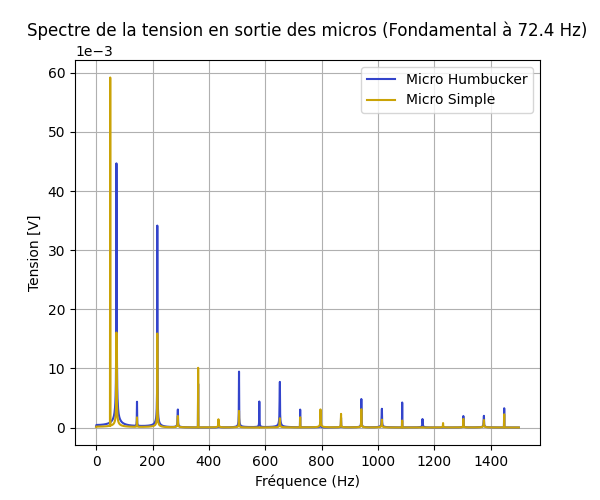
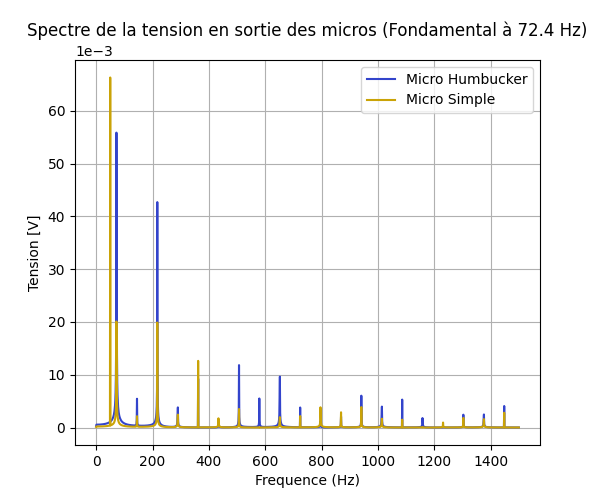
Code improved

diff --git a/Python/Code/Modele_fem.py b/Python/Code/Modele_fem.py
@@ -10,7 +10,11 @@ print("\nImportation des bibliotheques...")
 import numpy as np
 import matplotlib.pyplot as plt
 from matplotlib.ticker import MultipleLocator
+import os
+import logging
 print("Bibliotheques importees.")
+# Configure logging for optional diagnostic output
+logging.basicConfig(level=logging.INFO, format='%(levelname)s: %(message)s')
 
                                             #!###########!#
                                             #! Constante !#
@@ -35,9 +39,9 @@ RCC_s = 8.92*10**3      #A verifier ???
 lmoy_s = 0.147          #A verifier ???
 N_s = int(RCC_s*np.pi*d**2 / (4*rho*lmoy_s))
 #* Parametre Micro Humbucker
-RCC_h = ...             #A verifier ???
-lmoy_h = ...            #A verifier ???
-N_h = ...               #A verifier ???
+RCC_h = None             #A verifier ???
+lmoy_h = None            #A verifier ???
+N_h = None               #A verifier ???
 #* Parametre Champ parasite
 Nbob = 150              #A verifier ???
 R = 0.05                #A verifier ???
@@ -88,6 +92,11 @@ params = [
 # En-tête du tableau
 print(f"{'Var':<8} {'Valeur':>18} {'Unite':<10} {'Description':<45}")
 print("-" * 85)
+
+# Avertissement si les paramètres humbucker ne sont pas renseignés
+if RCC_h is None or lmoy_h is None or N_h is None:
+    logging.warning("Parametres humbucker (RCC_h, lmoy_h, N_h) non defini(s). Certaines simulations pourront utiliser N_s en substitution.")
+
 
 # Affichage des parametres
 compteur = 1
@@ -156,166 +165,187 @@ def fem_par_h(N:int, x1: float, x2: float, f:float, t: np.ndarray) -> np.ndarray
                                             #!######################!#
                                             #!         Appel        !#
                                             #!######################!#
-print("-" * 100)
-print("\nCalcul des tensions induites...")
-print("\nEchantillonnage...")
-Te = 0.03
-Ne = 1000
-fs = Ne/Te
-Na = 20
-# Affichage des parametres d'echantillonnage
-print("\nParametres d'echantillonnage (avec unites) :")
-print(f"Te = {Te} s")
-print(f"Ne = {Ne} echantillons")
-print(f"fs = {fs:.6g} Hz")
-print(f"Na = {Na}")
+if __name__ == "__main__":
+    # Ensure export directory exists
+    os.makedirs("Python/Exports", exist_ok=True)
 
-print("\nCalcul des tensions en reponse a la vibration de la corde...")
-temps = np.linspace(0, Te, Ne, endpoint=False)
-corde = entree(Na, xm, temps)
-fem_s = fem_singlecoil(Na, N_s, xm, temps)
-fem_h = fem_humbucker(Na, N_s, x1, x2, temps)
+    print("-" * 100)
+    print("\nCalcul des tensions induites...")
+    print("\nEchantillonnage...")
+    Te = 0.03
+    Ne = 1_000
+    fs = Ne/Te
+    Na = 20
+    
+    Te_fft = 1
+    Ne_fft = 100_000
+    fs_fft = Ne_fft/Te_fft
+    
+    # Affichage des parametres d'echantillonnage
+    print("\nParametres d'echantillonnage (avec unites) :")
+    print(f"Te = {Te} s")
+    print(f"Ne = {Ne} echantillons")
+    print(f"fs = {fs:.6g} Hz")
+    print(f"Na = {Na}")
 
-print("\nCalcul des tensions en reponse au champ parasite...")
-champ_par = B(0, fB, temps)
-fem_s_par = fem_par_s(N_s, xm, fB, temps)
-fem_h_par = fem_par_h(N_s, x1, x2, fB, temps)
+    print("\nCalcul des tensions en reponse a la vibration de la corde...")
+    temps = np.linspace(0, Te, Ne, endpoint=False)
+    corde = entree(Na, xm, temps)
+    fem_s = fem_singlecoil(Na, N_s, xm, temps)
+    fem_h = fem_humbucker(Na, N_s, x1, x2, temps)
 
-print("\nCalcul des tensions totales...")
-fem_s_tot = fem_s + fem_s_par
-fem_h_tot = fem_h + fem_h_par
+    print("\nCalcul des tensions en reponse au champ parasite...")
+    champ_par = B(0, fB, temps)
+    fem_s_par = fem_par_s(N_s, xm, fB, temps)
+    fem_h_par = fem_par_h(N_s, x1, x2, fB, temps)
 
-                                            #!######################!#
-                                            #!          FFT         !#
-                                            #!######################!#
+    print("\nCalcul des tensions totales...")
+    fem_s_tot = fem_s + fem_s_par
+    fem_h_tot = fem_h + fem_h_par
 
+    Color_c = "#505050"
+    Color_h = "#3344CB"
+    Color_s = "#CAA307"
 
-Color_c = "#505050"
-Color_h = "#3344CB"
-Color_s = "#CAA307"
+    # Option pour tracer la FFT (ne s'exécute que si True)
+    tracer_fft = True
+    if tracer_fft:
+        print("-" * 100)
+        print("\nCalcul des FFT...")
+        print("\nParametres d'echantillonnage (avec unites) :")
+        print(f"Te = {Te_fft} s")
+        print(f"Ne = {Ne_fft} echantillons")
+        print(f"fs = {fs_fft:.6g} Hz")
+        print(f"Na = {Na}")
+        
+        print("\nCalcul des tensions en reponse a la vibration de la corde...")
+        temps_fft = np.linspace(0, Te_fft, Ne_fft, endpoint=False)
+        corde_fft = entree(Na, xm, temps_fft)
+        fem_s_fft = fem_singlecoil(Na, N_s, xm, temps_fft)
+        fem_h_fft = fem_humbucker(Na, N_s, x1, x2, temps_fft)
+        print("\nCalcul des tensions en reponse au champ parasite...")
+        champ_par_fft = B(0, fB, temps_fft)
+        fem_s_par_fft = fem_par_s(N_s, xm, fB, temps_fft)
+        fem_h_par_fft = fem_par_h(N_s, x1, x2, fB, temps_fft)
+        print("\nCalcul des tensions totales...")
+        fem_s_tot_fft = fem_s_fft + fem_s_par_fft
+        fem_h_tot_fft = fem_h_fft + fem_h_par_fft
+        
+        fft_s = np.fft.fft(fem_s_tot_fft)
+        fft_s_amp = 2 * np.abs(fft_s) / Ne_fft
+        fft_s_amp[0] /= 2
 
-"""
-print("-" * 100)
-print("\nCalcul des FFT...")
-fft_s = np.fft.fft(fem_s_tot)
-fft_s_amp = 2 * np.abs(fft_s) / Ne
-fft_s_amp[0] /= 2
+        fft_h = np.fft.fft(fem_h_tot_fft)
+        fft_h_amp = 2 * np.abs(fft_h) / Ne_fft
+        fft_h_amp[0] /= 2
 
-fft_h = np.fft.fft(fem_h_tot)
-fft_h_amp = 2 * np.abs(fft_h) / Ne
-fft_h_amp[0] /= 2
+        freqs = np.fft.fftfreq(Ne_fft, 1/fs_fft)
+        mask = 0 <= freqs
+        freqs = freqs[mask]
+        mask2 = freqs <= 1500
+        freqs = freqs[mask2]
 
-freqs = np.fft.fftfreq(Ne, 1/fs)
-mask = 0 <= freqs
-freqs = freqs[mask]
-mask2 = freqs <= 1500
-freqs = freqs[mask2]
+        fft_s_amp = fft_s_amp[mask]
+        fft_s_amp = fft_s_amp[mask2]
+        fft_h_amp = fft_h_amp[mask]
+        fft_h_amp = fft_h_amp[mask2]
+        print("FFT calculees.")
 
-fft_s_amp = fft_s_amp[mask]
-fft_s_amp = fft_s_amp[mask2]
-fft_h_amp = fft_h_amp[mask]
-fft_h_amp = fft_h_amp[mask2]
-print("FFT calculees.")
+        print("Affichage des FFT...")
+        Title = "Spectre de la tension en sortie des micros (Fondamental à " + str(F) + " Hz)"
+        plt.figure(figsize=(6,5))
+        plt.plot(freqs, fft_h_amp, color=Color_h, label="Micro Humbucker")
+        plt.plot(freqs, fft_s_amp, color=Color_s, label="Micro Simple")
+        plt.title(Title)
+        plt.legend()
+        plt.xlabel("Frequence (Hz)")
+        plt.ylabel("Tension [V]")
+        plt.grid(True)
+        plt.gca().ticklabel_format(axis='y', style='sci', scilimits=(-3, -3))
+        plt.savefig("Python/Exports/FFT.png")
+        plt.close()
+        print("FFT sauvegardees sous Python/Exports/FFT.png.")
 
-print("Affichage des FFT...")
-Title = "Spectre de la tension en sortie des micros (Fondamental à " + str(F) + " Hz)"
-plt.figure(figsize=(6,5))
-plt.plot(freqs, fft_h_amp, color=Color_h, label="Micro Humbucker")
-plt.plot(freqs, fft_s_amp, color=Color_s, label="Micro Simple")
-plt.title(Title)
-plt.legend()
-plt.xlabel("Frequence (Hz)")
-plt.ylabel("Tension [V]")
-plt.grid(True)
-plt.gca().ticklabel_format(axis='y', style='sci', scilimits=(-3, -3))
-plt.savefig("Python/Exports/FFT.png")
-plt.close()
-print("FFT sauvegardees sous Python/Exports/FFT.png.")
+    print("-" * 100)
+    print("\nAffichage des courbes...")
 
-                                            #!######################!#
-                                            #!   Affichage Courbes  !#
-                                            #!######################!#
-"""
-print("-" * 100)
-print("\nAffichage des courbes...")
+    #* --- Comparaison des micros (corde seule) ---*#
+    print("Comparaison des micros (corde seule)...")
+    fig, ax1 = plt.subplots()
+    ax1.set_ylabel("Tension induite [V]", color="#000000")
+    l3, = ax1.plot(temps, fem_h, color=Color_h, label="Micro Humbucker [V]")
+    l2, = ax1.plot(temps, fem_s, color=Color_s, label="Micro Simple [V]")
+    ax1.tick_params(axis='y', labelcolor="#000000")
+    ax1.ticklabel_format(axis='y', style='sci', scilimits=(-3, -3))
+    fig.legend(handles=[l3, l2], loc='lower left')
+    plt.title("Tension induite en sortie du micro (Corde seule)")
+    fig.tight_layout()
+    plt.grid()
+    plt.savefig("Python/Exports/Comparaison_sh.png")
+    plt.close()
+    print("Courbes sauvegardees sous Python/Exports/Comparaison_sh.png.")
 
-#* --- Comparaison des micros (corde seule) ---*#
-print("Comparaison des micros (corde seule)...")
-fig, ax1 = plt.subplots()
-ax1.set_ylabel("Tension induite [V]", color="#000000")
-l3, = ax1.plot(temps, fem_h, color=Color_h, label="Micro Humbucker [V]")
-l2, = ax1.plot(temps, fem_s, color=Color_s, label="Micro Simple [V]")
-ax1.tick_params(axis='y', labelcolor="#000000")
-ax1.ticklabel_format(axis='y', style='sci', scilimits=(-3, -3))
-fig.legend(handles=[l3, l2], loc='lower left')
-plt.title("Tension induite en sortie du micro (Corde seule)")
-fig.tight_layout()
-plt.grid()
-plt.savefig("Python/Exports/Comparaison_sh.png")
-plt.close()
-print("Courbes sauvegardees sous Python/Exports/Comparaison_sh.png.")
+    #* --- Comparaison des micros (champ parasite seul) ---*#
+    print("Comparaison des micros (champ parasite seul)...")
+    fig, ax1 = plt.subplots()
 
-#* --- Comparaison des micros (champ parasite seul) ---*#
-print("Comparaison des micros (champ parasite seul)...")
-fig, ax1 = plt.subplots()
+    # Axe 1
+    ax1.set_xlabel("Temps [s]")
+    ax1.set_ylabel("Champ Parasite [T]", color=Color_c)
+    l1, = ax1.plot(temps, champ_par, color=Color_c, label="Champ Parasite [T]")
+    ax1.tick_params(axis='y', labelcolor=Color_c)
+    ax1.ticklabel_format(axis='y', style='sci', scilimits=(-6, -6))
 
-# Axe 1
-ax1.set_xlabel("Temps [s]")
-ax1.set_ylabel("Champ Parasite [T]", color=Color_c)
-l1, = ax1.plot(temps, champ_par, color=Color_c, label="Champ Parasite [T]")
-ax1.tick_params(axis='y', labelcolor=Color_c)
-ax1.ticklabel_format(axis='y', style='sci', scilimits=(-6, -6))
+    # Axe 2
+    ax2 = ax1.twinx()  # Deuxieme axe y
+    ax2.set_ylabel("Tension induite [V]", color="#000000")
+    l3, = ax2.plot(temps, fem_h_par, color=Color_h, label="Micro Humbucker [V]")
+    l2, = ax2.plot(temps, fem_s_par, color=Color_s, label="Micro Simple [V]")
+    ax2.tick_params(axis='y', labelcolor="#000000")
+    ax2.ticklabel_format(axis='y', style='sci', scilimits=(-3, -3))
 
-# Axe 2
-ax2 = ax1.twinx()  # Deuxieme axe y
-ax2.set_ylabel("Tension induite [V]", color="#000000")
-l3, = ax2.plot(temps, fem_h_par, color=Color_h, label="Micro Humbucker [V]")
-l2, = ax2.plot(temps, fem_s_par, color=Color_s, label="Micro Simple [V]")
-ax2.tick_params(axis='y', labelcolor="#000000")
-ax2.ticklabel_format(axis='y', style='sci', scilimits=(-3, -3))
+    # Legende unique
+    fig.legend(handles=[l1, l3, l2], loc='lower left')
 
-# Legende unique
-fig.legend(handles=[l1, l3, l2], loc='lower left')
+    # Mise en forme
+    plt.title("Tension induite en sortie du micro (champ parasite uniquement)")
+    fig.tight_layout()
+    plt.grid()
+    plt.savefig("Python/Exports/Parasite.png")
+    plt.close()
+    print("Courbes sauvegardees sous Python/Exports/Parasite.png.")
 
-# Mise en forme
-plt.title("Tension induite en sortie du micro (champ parasite uniquement)")
-fig.tight_layout()
-plt.grid()
-plt.savefig("Python/Exports/Parasite.png")
-plt.close()
-print("Courbes sauvegardees sous Python/Exports/Parasite.png.")
+    #* --- Comparaison des micros (total) ---*#
+    print("Comparaison des micros (total)...")
 
-#* --- Comparaison des micros (total) ---*#
-print("Comparaison des micros (total)...")
+    fig, ax1 = plt.subplots()
+    ax1.set_ylabel("Tension induite [V]", color="#000000")
+    l3, = ax1.plot(temps, fem_h_tot, color=Color_h, label="Micro Humbucker [V]")
+    l2, = ax1.plot(temps, fem_s_tot, color=Color_s, label="Micro Simple [V]")
+    ax1.tick_params(axis='y', labelcolor="#000000")
+    ax1.ticklabel_format(axis='y', style='sci', scilimits=(-3, -3))
+    fig.legend(handles=[l3, l2], loc='lower left')
+    plt.title("Tension induite en sortie du micro (Corde + Champ parasite)")
+    fig.tight_layout()
+    plt.grid()
+    plt.savefig("Python/Exports/Total.png")
+    plt.close()
+    print("Courbes sauvegardees sous Python/Exports/Total.png.")
 
-fig, ax1 = plt.subplots()
-ax1.set_ylabel("Tension induite [V]", color="#000000")
-l3, = ax1.plot(temps, fem_h_tot, color=Color_h, label="Micro Humbucker [V]")
-l2, = ax1.plot(temps, fem_s_tot, color=Color_s, label="Micro Simple [V]")
-ax1.tick_params(axis='y', labelcolor="#000000")
-ax1.ticklabel_format(axis='y', style='sci', scilimits=(-3, -3))
-fig.legend(handles=[l3, l2], loc='lower left')
-plt.title("Tension induite en sortie du micro (Corde + Champ parasite)")
-fig.tight_layout()
-plt.grid()
-plt.savefig("Python/Exports/Total.png")
-plt.close()
-print("Courbes sauvegardees sous Python/Exports/Total.png.")
+    #* --- Micro Humbucker (corde) ---*#
+    print("Micro Humbucker seul...")
+    plt.plot(temps, fem_h, color=Color_h, label="Micro Humbucker [V]")
+    plt.gca().ticklabel_format(axis='y', style='sci', scilimits=(-3, -3))
+    plt.title("Tension induite en sortie du micro Humbucker (Corde seule)")
+    plt.xlabel("Temps [s]")
+    plt.ylabel("Tension [V]")
+    plt.gca().xaxis.set_major_locator(MultipleLocator(4e-3))
+    plt.gca().yaxis.set_major_locator(MultipleLocator(50e-3))
+    plt.grid(which='major', color='black', linestyle='-', linewidth=0.5)
+    plt.legend()
+    plt.savefig("Python/Exports/Humbucker_corde.png")
+    plt.close()
+    print("Courbes sauvegardees sous Python/Exports/Humbucker_corde.png.")
 
-#* --- Micro Humbucker (corde) ---*#
-print("Micro Humbucker seul...")
-plt.plot(temps, fem_h, color=Color_h, label="Micro Humbucker [V]")
-plt.gca().ticklabel_format(axis='y', style='sci', scilimits=(-3, -3))
-plt.title("Tension induite en sortie du micro Humbucker (Corde seule)")
-plt.xlabel("Temps [s]")
-plt.ylabel("Tension [V]")
-plt.gca().xaxis.set_major_locator(MultipleLocator(4e-3))
-plt.gca().yaxis.set_major_locator(MultipleLocator(50e-3))
-plt.grid(which='major', color='black', linestyle='-', linewidth=0.5)
-plt.legend()
-plt.savefig("Python/Exports/Humbucker_corde.png")
-plt.close()
-print("Courbes sauvegardees sous Python/Exports/Humbucker_corde.png.")
-
-print("-" * 100)
-print("\n---\nFin de l'execution de Modele_fem.py\n---\n")
+    print("-" * 100)
+    print("\n---\nFin de l'execution de Modele_fem.py\n---\n")
